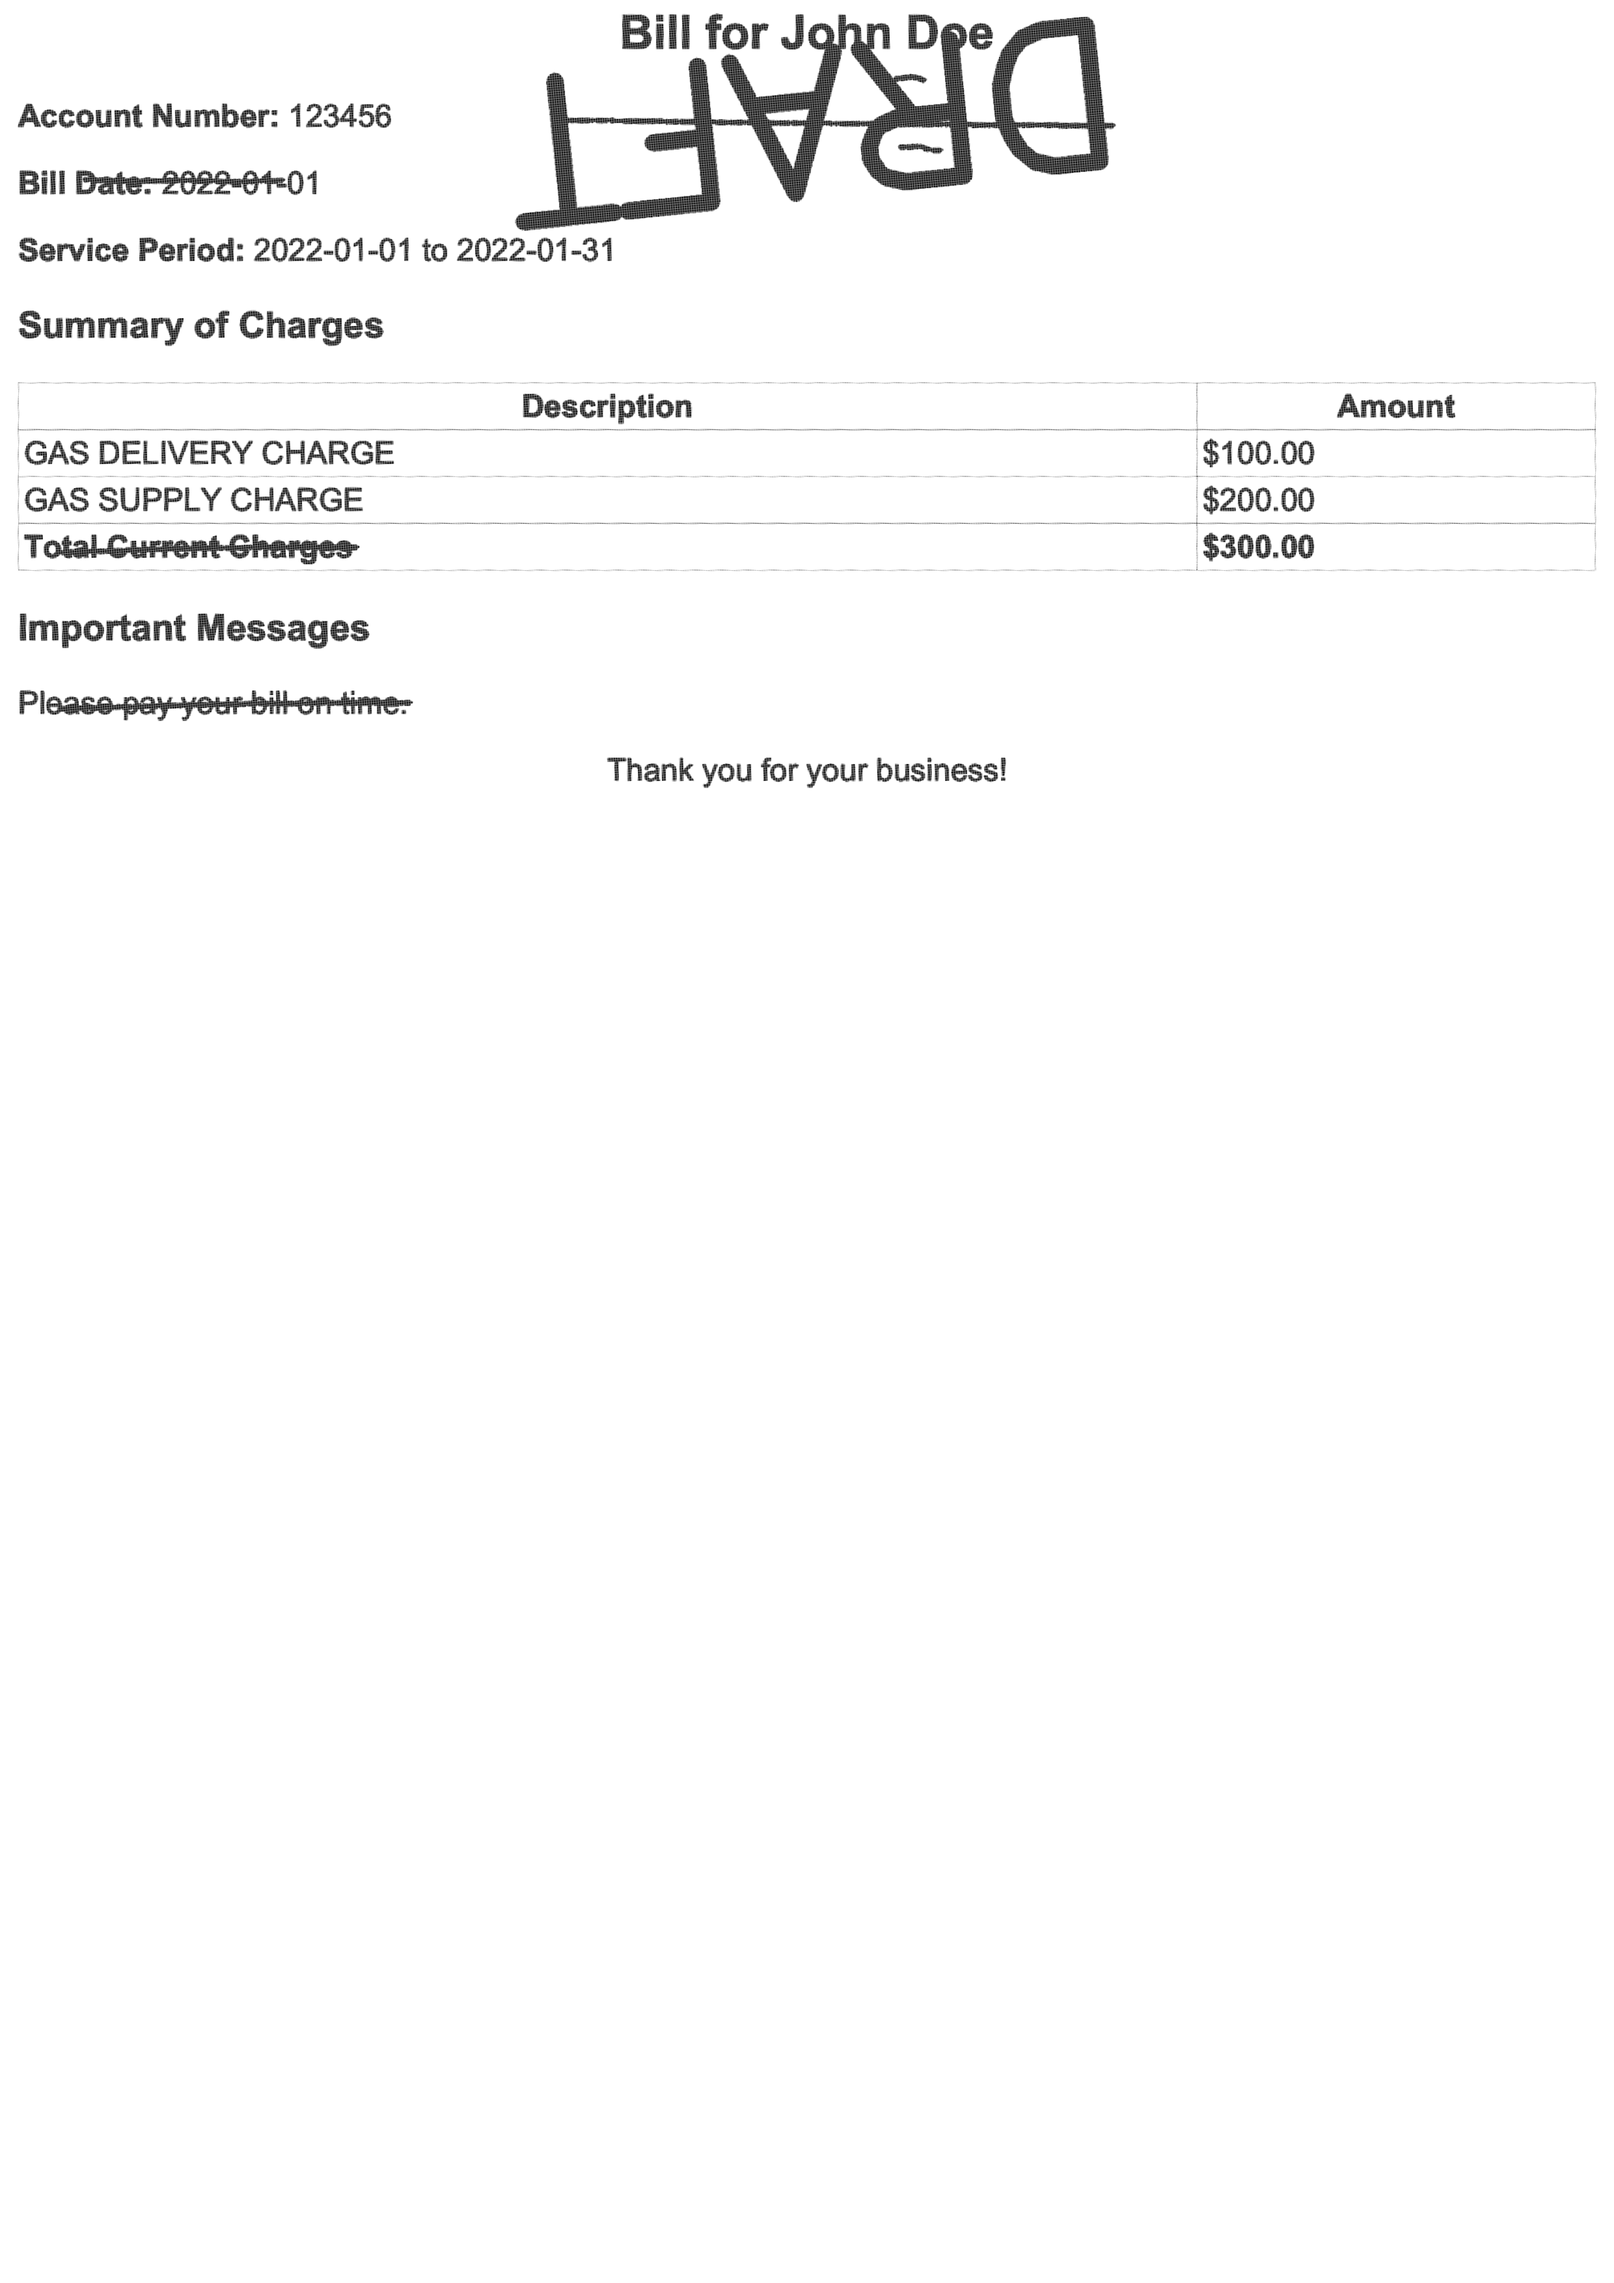
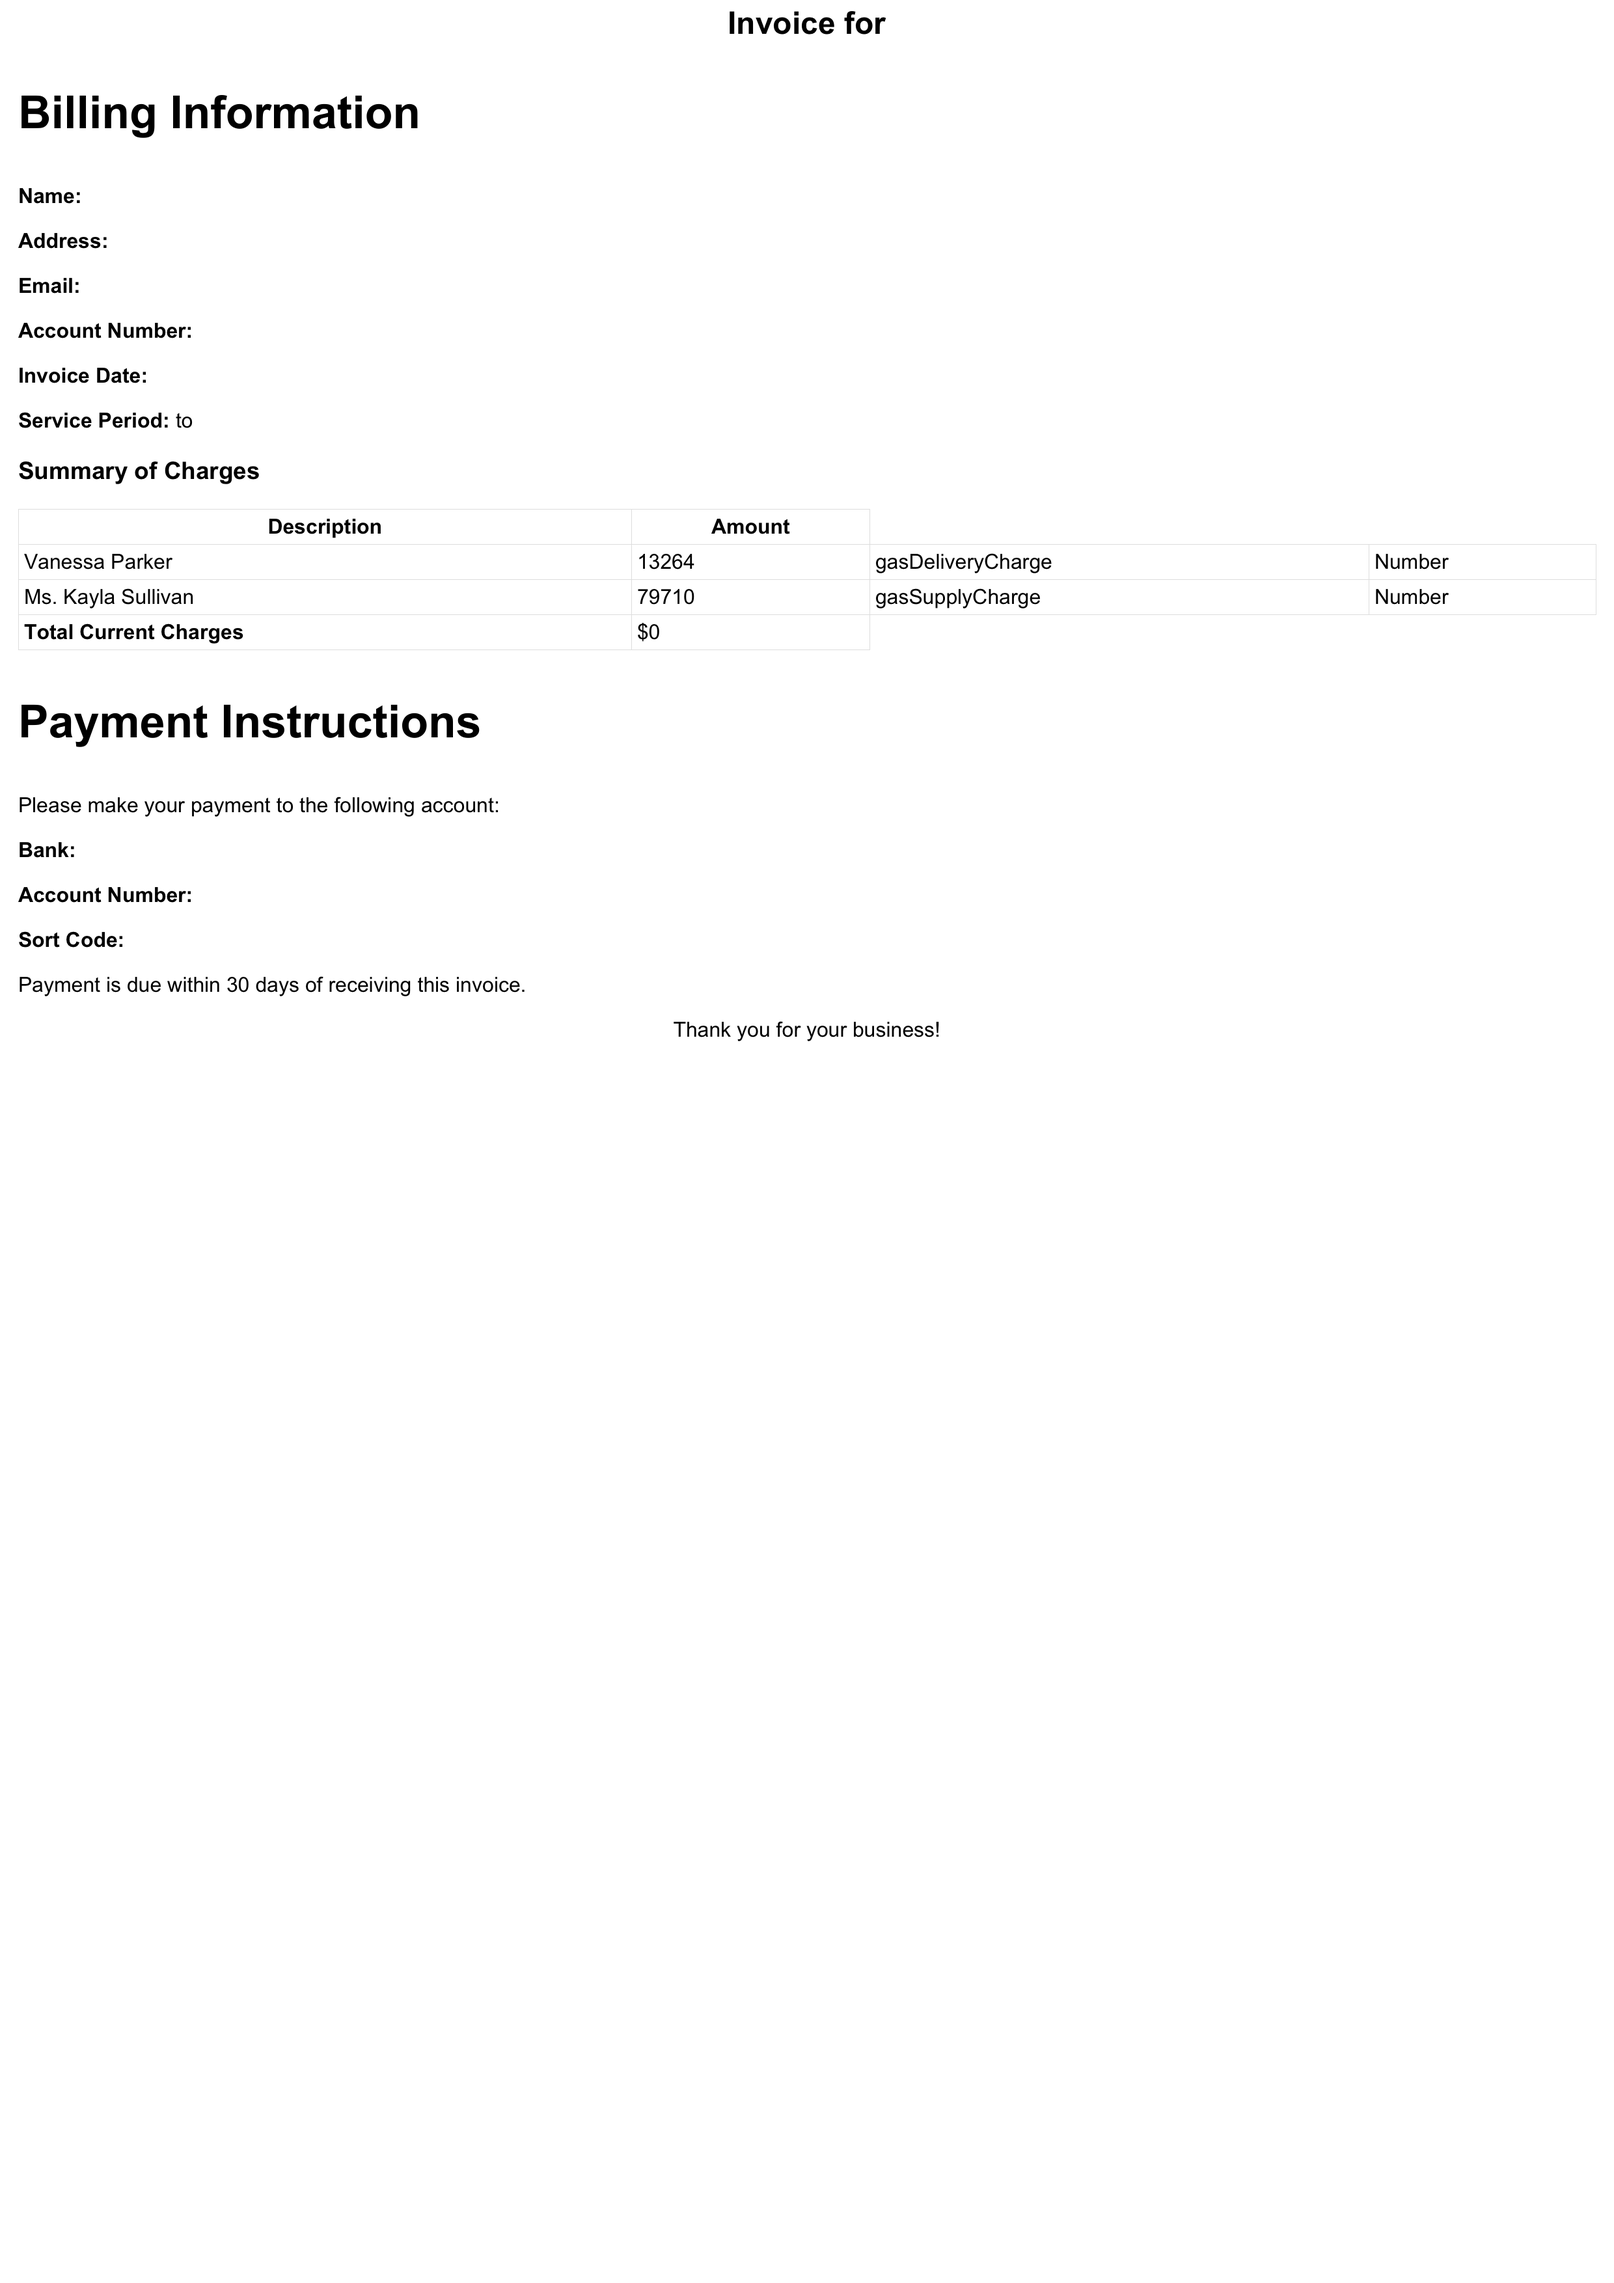
testing out jinja

diff --git a/synth_data_gen/templates/test.html b/synth_data_gen/templates/test.html
@@ -1,50 +1,52 @@
+{% from "table_macro.html" import charges_table %}
+
 <!DOCTYPE html>
 <html lang="en">
 <head>
     <meta charset="UTF-8">
     <meta name="viewport" content="width=device-width, initial-scale=1.0">
-    <title>Bill</title>
+    <title>Invoice</title>
     <style>
-        /* Add styles here for formatting the bill */
-        body { font-family: 'Arial', sans-serif; font-size: 3em; }
+        /* Add styles here for formatting the invoice */
+        body { font-family: 'Arial', sans-serif; font-size: 2em; }
         .header, .footer { text-align: center; }
-        .content { margin: 20px; }
+        .content, .billing-info, .payment-instructions { margin: 20px; }
         table { width: 100%; border-collapse: collapse; }
-        th, td { border: 1px solid #ddd; padding: 8px; font-size: 3em; }
+        th, td { border: 1px solid #ddd; padding: 8px; font-size: 2em; }
+        .billing-info h3, .payment-instructions h3 { font-size: 2.2em; }
     </style>
 </head>
 <body>
     <div class="header">
-        <h2>Bill for {{ customerName }}</h2>
+        <h2>Invoice for <span class="customerName" data-metatype="String">{{ customerName }}</span></h2>
+    </div>
+    <div class="billing-info">
+        <h3>Billing Information</h3>
+        <p><strong>Name:</strong> <span class="billingName" data-metatype="String">{{ billingName }}</span></p>
+        <p><strong>Address:</strong> <span class="billingAddress" data-metatype="String">{{ billingAddress }}</span></p>
+        <p><strong>Email:</strong> <span class="billingEmail" data-metatype="String">{{ billingEmail }}</span></p>
     </div>
     <div class="content">
-        <p><strong>Account Number:</strong> {{ accountNumber }}</p>
-        <p><strong>Bill Date:</strong> {{ billDate }}</p>
-        <p><strong>Service Period:</strong> {{ serviceStart }} to {{ serviceEnd }}</p>
+        <p><strong>Account Number:</strong> <span class="accountNumber" data-metatype="String">{{ accountNumber }}</span></p>
+        <p><strong>Invoice Date:</strong> <span class="billDate" data-metatype="Date">{{ billDate }}</span></p>
+        <p><strong>Service Period:</strong> <span class="serviceStart" data-metatype="Date">{{ serviceStart }}</span> to <span class="serviceEnd" data-metatype="Date">{{ serviceEnd }}</span></p>
 
         <h3>Summary of Charges</h3>
-        <table>
-            <tr>
-                <th>Description</th>
-                <th>Amount</th>
-            </tr>
-            <tr>
-                <td>GAS DELIVERY CHARGE</td>
-                <td>${{ gasDeliveryCharge }}</td>
-            </tr>
-            <tr>
-                <td>GAS SUPPLY CHARGE</td>
-                <td>${{ gasSupplyCharge }}</td>
-            </tr>
-            <!-- Add more rows as needed -->
-            <tr>
-                <td><strong>Total Current Charges</strong></td>
-                <td><strong>${{ totalCurrentCharges }}</strong></td>
-            </tr>
-        </table>
 
-        <h3>Important Messages</h3>
-        <p>{{ importantMessages }}</p>
+        <!-- Other HTML content -->
+        
+        {{ charges_table(charges, totalCurrentCharges) }}
+        
+        <!-- More HTML content -->
+        
+    </div>
+    <div class="payment-instructions">
+        <h3>Payment Instructions</h3>
+        <p>Please make your payment to the following account:</p>
+        <p><strong>Bank:</strong> <span class="bankName" data-metatype="String">{{ bankName }}</span></p>
+        <p><strong>Account Number:</strong> <span class="bankAccountNumber" data-metatype="String">{{ bankAccountNumber }}</span></p>
+        <p><strong>Sort Code:</strong> <span class="sortCode" data-metatype="String">{{ sortCode }}</span></p>
+        <p>Payment is due within 30 days of receiving this invoice.</p>
     </div>
     <div class="footer">
         <p>Thank you for your business!</p>

diff --git a/synth_data_gen/templates/test_variation.html b/synth_data_gen/templates/test_variation.html
@@ -1,0 +1,58 @@
+<!DOCTYPE html>
+<html lang="en">
+<head>
+    <meta charset="UTF-8">
+    <meta name="viewport" content="width=device-width, initial-scale=1.0">
+    <title>Statement</title>
+    <style>
+        /* Add styles here for formatting the statement */
+        body { font-family: 'Helvetica Neue', Helvetica, Arial, sans-serif; font-size: 1.5em; line-height: 1.6;}
+        .header, .footer { text-align: right; }
+        .content, .statement-summary, .contact-information, .terms-and-conditions { margin: 2cm; }
+        table { width: 100%; border-collapse: collapse; border: 1px solid black; }
+        th, td { border: 1px solid black; padding: 8px; font-size: 1.5em; text-align: left; }
+        .statement-summary h3, .contact-information h4, .terms-and-conditions h5 { font-size: 1.7em; }
+    </style>
+</head>
+<body>
+    <div class="header">
+        <img src="/logo.png" alt="Company Logo" style="width:100%; max-width:300px;" />
+        <h2>Statement for <span class="customerName" data-metatype="String">{{ customerName }}</span></h2>
+        <p class="date"><span class="statementPeriodFrom" data-metatype="Date">{{ statementPeriodFrom }}</span> to <span class="statementPeriodTo" data-metatype="Date">{{ statementPeriodTo }}</span></p>
+    </div>
+    <div class="content">
+        <div class="statement-summary">
+            <h3>Summary of Account Activity</h3>
+            <table>
+                <thead>
+                    <tr>
+                        <th>Transaction Type</th>
+                        <th>Description</th>
+                        <th>Amount (USD)</th>
+                        <th>Date</th>
+                    </tr>
+                </thead>
+                <tbody id="transactionTableBody">
+                </tbody>
+            </table>
+        </div>
+        <div class="transactions">
+            <h3>Detailed Transactions</h3>
+            <!-- Add detailed transaction list here -->
+        </div>
+    </div>
+    <div class="contact-information">
+        <h4>Contact Us</h4>
+        <p><strong>Phone:</strong> +1 (123) 456-7890</p>
+        <p><strong>Email:</strong> info@example.com</p>
+        <p><strong>Website:</strong> www.example.com</p>
+    </div>
+    <div class="terms-and-conditions">
+        <h5>Terms & Conditions</h5>
+        <!-- Add terms and conditions here -->
+    </div>
+    <div class="footer">
+        <p>&copy; 2023 Example Inc. All rights reserved.</p>
+    </div>
+</body>
+</html>

diff --git a/synth_data_gen/templates/table_macro.html b/synth_data_gen/templates/table_macro.html
@@ -1,0 +1,22 @@
+{% macro charges_table(charges, totalCurrentCharges) %}
+<table>
+    <tr>
+        <th>Description</th>
+        <th>Amount</th>
+    </tr>
+    {% set totalCurrentCharges = 0 %}
+    {% for charge in charges %}
+        {% set totalCurrentCharges = totalCurrentCharges + charge.amount %}
+        <tr>
+            <td>{{ charge.description }}</td>
+            <td>{{ charge.amount }}</td>
+            <td>{{ charge.class }}</td>
+            <td>{{ charge.metatype }}</td>
+        </tr>
+    {% endfor %}
+    <tr>
+        <td><strong>Total Current Charges</strong></td>
+        <td><span class="totalCurrentCharges" data-metatype="Number">${{ totalCurrentCharges }}</span></td>
+    </tr>
+</table>
+{% endmacro %}

diff --git a/synth_data_gen/generate_from_html.py b/synth_data_gen/generate_from_html.py
@@ -6,47 +6,75 @@ from jinja2 import Template
 from augraphy import *
 import cv2
 import matplotlib.pyplot as plt
+from faker import Faker
+from jinja2 import Environment, FileSystemLoader
+
 
 pipeline = default_augraphy_pipeline()
+fake = Faker()
 
+            # "first_name": self.fake.first_name(),
+            # "last_name": self.fake.last_name(),
+            # "date_of_birth": self.fake.date_of_birth().strftime('%Y-%m-%d'),
+            # "social_security_number": self.fake.ssn(),
+            # "address": self.fake.street_address(),
+            # "city": self.fake.city(),
+            # "state": self.fake.state(),
+            # "zip_code": self.fake.zipcode(),
+            # "email": self.fake.email(),
+            # "phone_number": self.fake.phone_number()
 
 # Set the path to your HTML file
-html_file_path = '/Users/arnaudstiegler/llm-table-extraction/synth_data_gen/templates/test.html'
+# html_file_path = '/Users/arnaudstiegler/llm-table-extraction/synth_data_gen/templates/test.html'
 
-# Your data
-data = {
-    'customerName': 'John Doe',
-    'accountNumber': '123456',
-    'billDate': '2022-01-01',
-    'serviceStart': '2022-01-01',
-    'serviceEnd': '2022-01-31',
-    'gasDeliveryCharge': '100.00',
-    'gasSupplyCharge': '200.00',
-    'totalCurrentCharges': '300.00',
-    'importantMessages': 'Please pay your bill on time.'
-}
+template_dir = '/Users/arnaudstiegler/llm-table-extraction/synth_data_gen/templates/'
+env = Environment(loader=FileSystemLoader(template_dir))
 
-# Read the template from the file
-with open(html_file_path, 'r') as file:
-    template = Template(file.read())
 
-# Render the template with the data
-output = template.render(data)
+
+# # Read the template from the file
+# with open(html_file_path, 'r') as file:
+#     template = Template(file.read())
+
+
 
 # Set the width and height of the output image
 width = 2480
 height = 3508
 
-# Convert the HTML template to an image
-img = imgkit.from_string(output, None, options={'format': 'png', 'width': width, 'height': height})
 
-# Convert the image to a PIL image
-pil_img = Image.open(io.BytesIO(img))
-
-# Convert the PIL image to a NumPy array
-np_img = np.array(pil_img)
 
 for i in range(5):
-    np_augmented = pipeline(np_img)
-    pil_augmented = Image.fromarray(np_augmented)
-    pil_augmented.save(f'/Users/arnaudstiegler/llm-table-extraction/synth_data_gen/samples/sample_{i}.png')
+    # np_augmented = pipeline(np_img)
+    # pil_augmented = Image.fromarray(np_augmented)
+    template = env.get_template('test_variation.html')  # Replace 'test.html' with your actual template name
+    data = {
+    'customerName': fake.first_name() + ' ' + fake.last_name(),
+    'accountNumber': fake.numerify(text='INV-#####'),
+    'billDate': fake.date(),
+    'serviceStart': '2022-01-01',
+    'serviceEnd': '2022-01-31',
+    # TODO should update that logic
+    'gasDeliveryCharge': str(fake.random_number(digits=3)) + '.00',
+    'gasSupplyCharge': str(fake.random_number(digits=3)) + '.00',
+    'totalCurrentCharges': str(fake.random_number(digits=3)) + '.00',
+    'importantMessages': fake.words()
+    }
+    charges = [
+        {"description": fake.name(), "amount": fake.random_number(digits=5), "class": "gasDeliveryCharge", "metatype": "Number"},
+        {"description": fake.name(), "amount": fake.random_number(digits=5), "class": "gasSupplyCharge", "metatype": "Number"},
+        # Add more charges as needed
+    ]
+
+    # Render the template with data
+    output = template.render(charges=charges)    
+
+    # Convert the HTML template to an image
+    img = imgkit.from_string(output, None, options={'format': 'png', 'width': width, 'height': height})
+
+    # Convert the image to a PIL image
+    pil_img = Image.open(io.BytesIO(img))
+
+    # Convert the PIL image to a NumPy array
+    np_img = np.array(pil_img)
+    pil_img.save(f'/Users/arnaudstiegler/llm-table-extraction/synth_data_gen/samples/sample_{i}.png')
